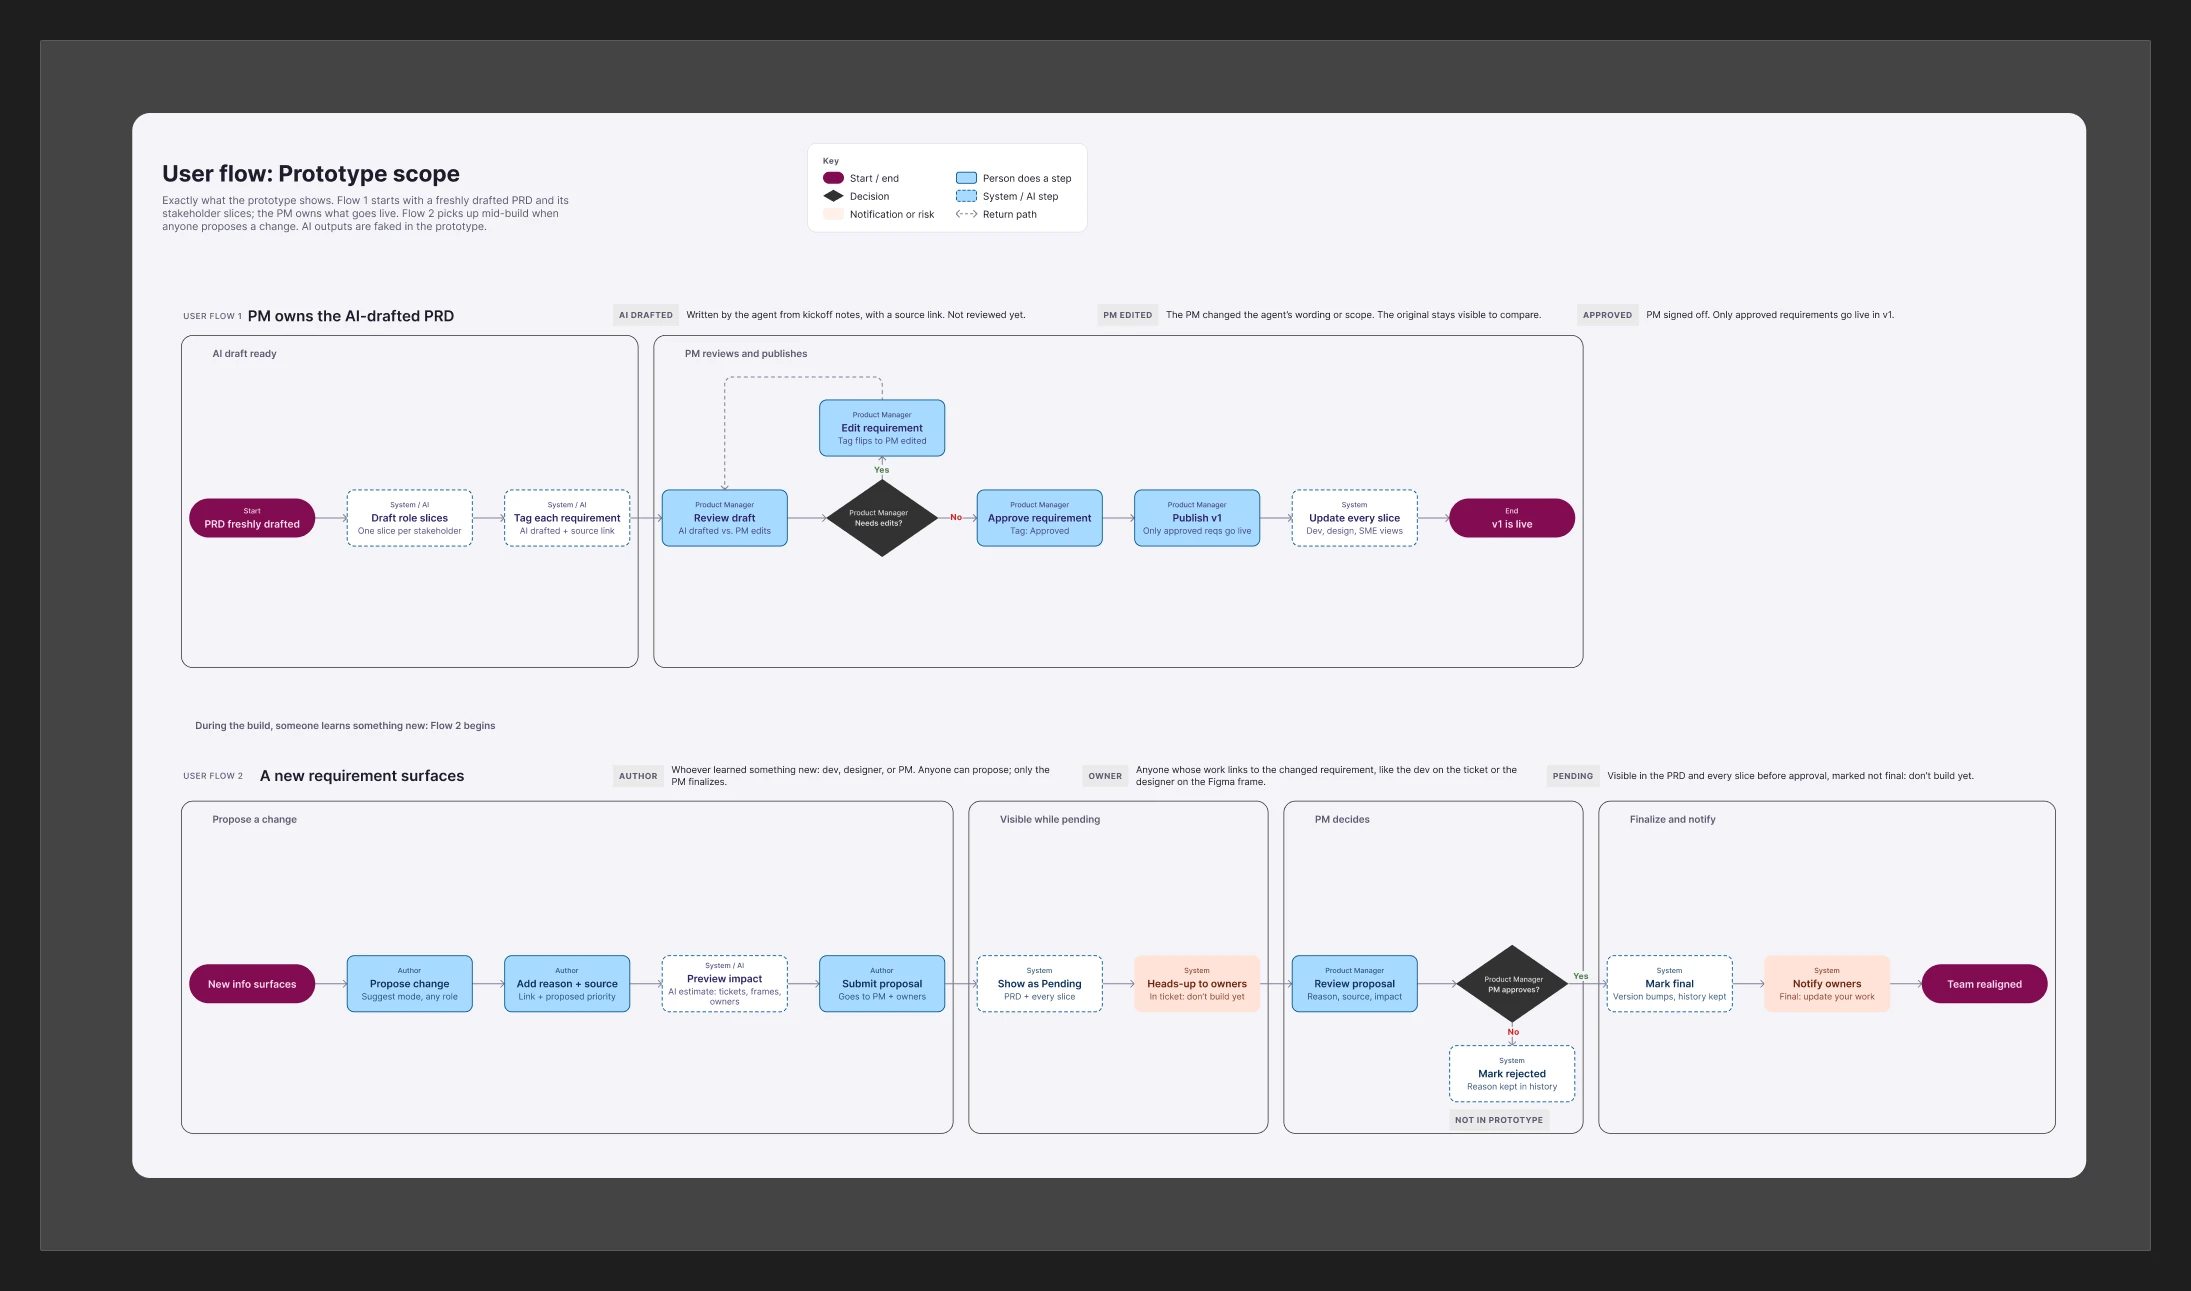
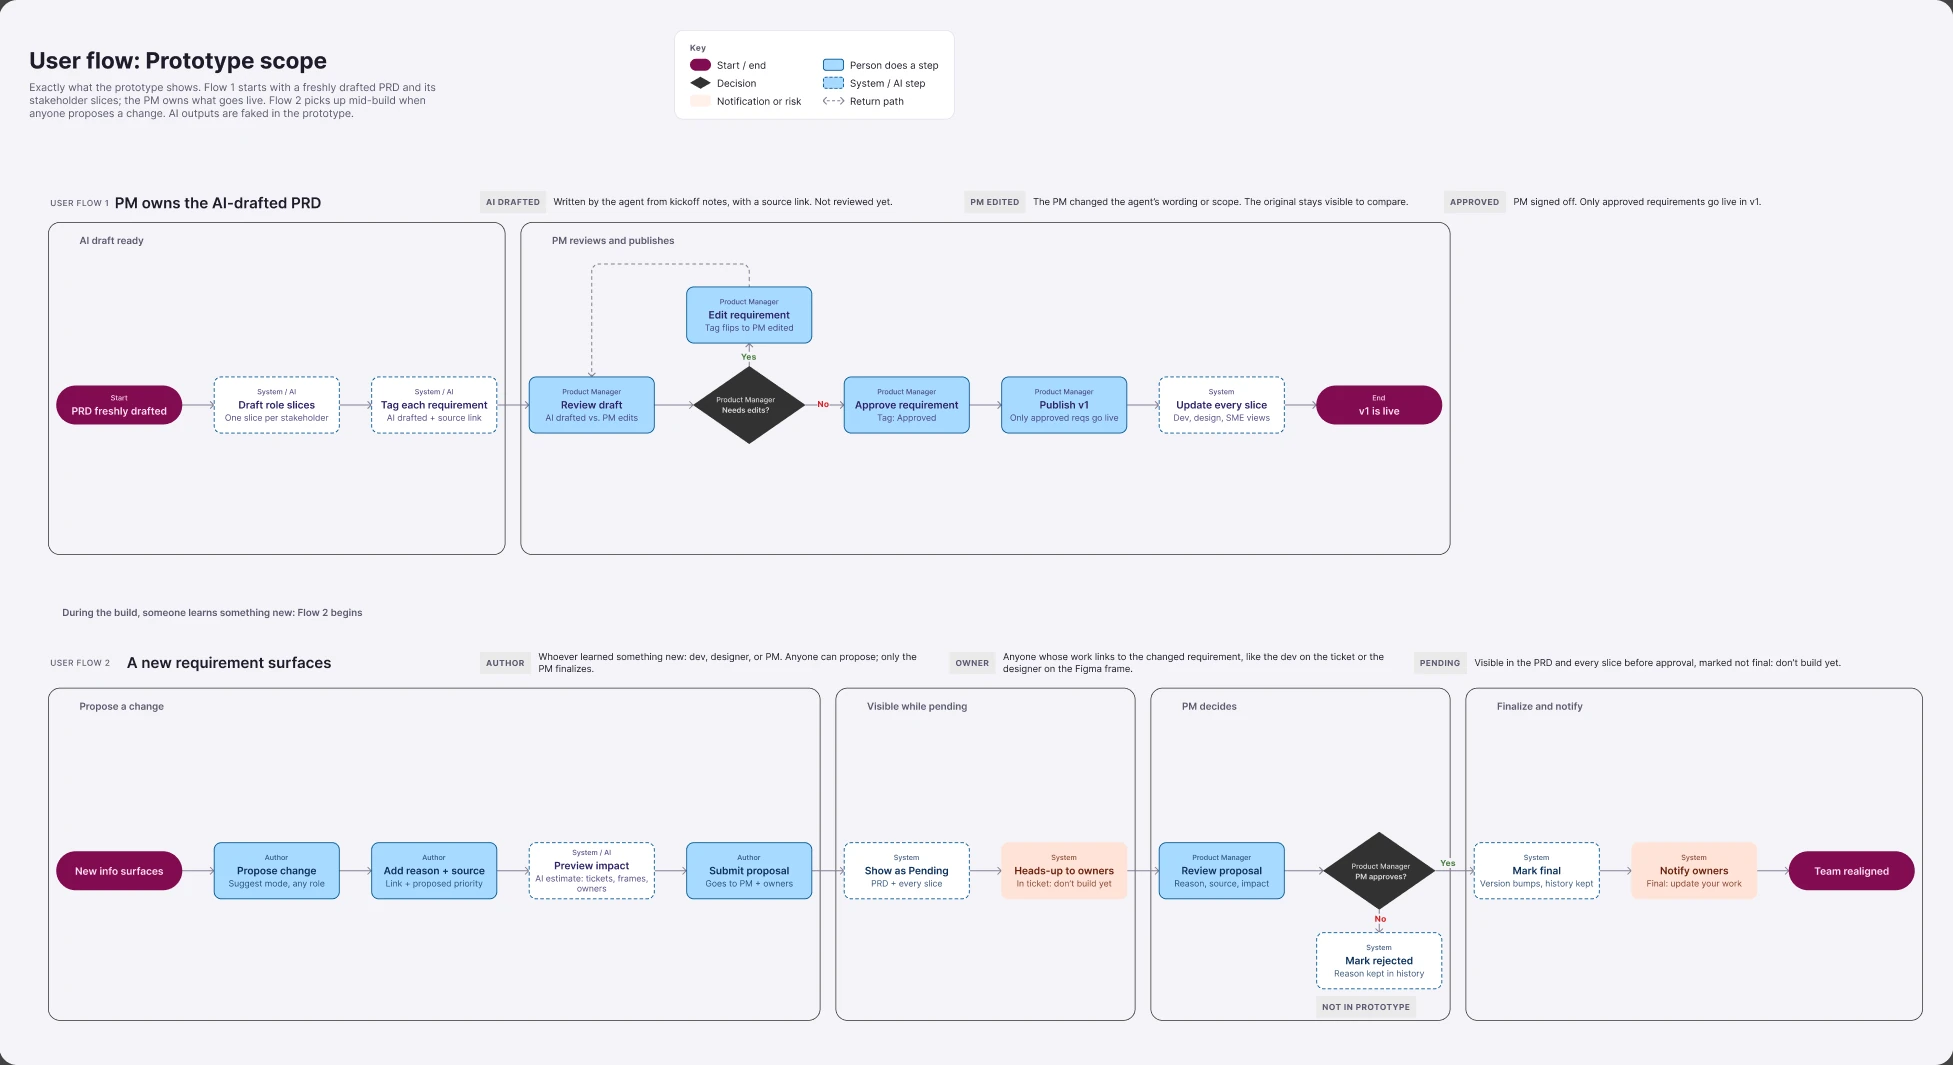
User flow: one artifact with Full flow / How I scoped the prototype tabs; crop flows to the board
Claude-Session: https://claude.ai/code/session_01L54DzuhfeQABLr4xASFuvZ

diff --git a/src/archive/ArchivePanel.jsx b/src/archive/ArchivePanel.jsx
@@ -409,11 +409,14 @@ export default function ArchivePanel({ onOpenCard, cardLabels = {}, startOpen = 
   const [open, setOpen] = useState(startOpen)
   const [selId, setSelId] = useState(ITEMS[0].id)
   const [tab, setTab] = useState(0)
-  const sel = ITEMS.find((i) => i.id === selId) || ITEMS[0]
-  const zoom = useZoom(selId)
+  const [view, setView] = useState(0)
+  const base = ITEMS.find((i) => i.id === selId) || ITEMS[0]
+  // an artifact with views (e.g. user flow) shows one at a time, picked from tabs above the viewer
+  const sel = base.views ? { ...base, ...base.views[Math.min(view, base.views.length - 1)] } : base
+  const zoom = useZoom(selId + ':' + view)
   const stageRef = useRef(null)
   const [nat, setNat] = useState(null)
-  useEffect(() => setNat(null), [selId])
+  useEffect(() => setNat(null), [selId, view])
   // Fill: the artifact fills the viewer edge to edge (documents: the page width fills it)
   const fillZ = () => {
     const el = stageRef.current
@@ -437,7 +440,7 @@ export default function ArchivePanel({ onOpenCard, cardLabels = {}, startOpen = 
     return () => window.removeEventListener('keydown', onKey)
   }, [open])
 
-  const pick = (id) => { setSelId(id); setTab(0) }
+  const pick = (id) => { setSelId(id); setTab(0); setView(0) }
   const isDoc = sel.kind === 'doc'
 
   return (
@@ -508,8 +511,15 @@ export default function ArchivePanel({ onOpenCard, cardLabels = {}, startOpen = 
                     </div>
                   </div>
                 </div>
+                {base.views && (
+                  <div className="ar-views" role="tablist" aria-label="Views">
+                    {base.views.map((vw, i) => (
+                      <button key={vw.label} type="button" role="tab" aria-selected={i === view} onClick={() => setView(i)}>{vw.label}</button>
+                    ))}
+                  </div>
+                )}
                 <div className="ar-stage" ref={stageRef}>
-                  <ViewerBoundary resetKey={sel.id}>{isDoc ? <DocView item={sel} zoom={zoom} tab={tab} setTab={setTab} /> : <ImageView key={sel.id} item={sel} zoom={zoom} onSize={setNat} />}</ViewerBoundary>
+                  <ViewerBoundary resetKey={sel.id + ':' + view}>{isDoc ? <DocView item={sel} zoom={zoom} tab={tab} setTab={setTab} /> : <ImageView key={sel.id + ':' + view} item={sel} zoom={zoom} onSize={setNat} />}</ViewerBoundary>
                 </div>
               </div>
 

diff --git a/src/archive/archiveData.js b/src/archive/archiveData.js
@@ -154,8 +154,11 @@ export const GROUPS = [
     { id: 'mind', kind: 'img', explore: 'mind', dark: true, img: 'mind', title: 'Mind map', meta: 'Themes, pains and ideas', card: 'mind-mapping', takeaway: 'What I carried into Astra: a living PRD with change and drift alerts, and a drafting tool that listens to conversations.' }
   ]},
   { name: 'Designing Astra', items: [
-    { id: 'flowfinal', kind: 'img', img: 'flowfinal', title: 'User flow', meta: 'VP request to team realigned', takeaway: 'Flow 1 starts from a VP request. Flow 2 picks up mid-build, when someone learns something new and proposes a change.' },
-    { id: 'flow', kind: 'img', img: 'flow', title: 'User flow: prototype scope', meta: 'Exactly what the prototype shows', takeaway: 'Anyone can propose a change. Only the PM finalizes it.' },
+    { id: 'flowfinal', kind: 'img', img: 'flowfinal', title: 'User flow', meta: 'Full flow, and how I scoped the prototype', takeaway: 'Flow 1 starts from a VP request. Flow 2 picks up mid-build, when someone learns something new and proposes a change.',
+      views: [
+        { label: 'Full flow', img: 'flowfinal', takeaway: 'Flow 1 starts from a VP request. Flow 2 picks up mid-build, when someone learns something new and proposes a change.' },
+        { label: 'How I scoped the prototype', img: 'flow', takeaway: 'Anyone can propose a change. Only the PM finalizes it.' }
+      ] },
     { id: 'high', kind: 'img', dark: true, img: 'high', title: 'High-fi wireframes', meta: 'Codex, Figma and PRD views', card: 'wireframes', takeaway: 'Built around one scenario: the PRD says the dashboard refreshes every 15 minutes, but the data only updates once an hour.' }
   ]},
   { name: 'Testing · Nov 2026', items: [

diff --git a/src/archive/archive.css b/src/archive/archive.css
@@ -70,6 +70,10 @@
 .ar-seg { display: flex; margin-left: 8px; padding: 2px; border-radius: 18px; background: #191b1c; }
 .ar-tools .ar-seg button { width: auto; min-width: 52px; height: 30px; padding: 0 12px; border-radius: 15px; font: 600 12px var(--sans); color: #f1f1f1; }
 .ar-tools .ar-seg button[aria-pressed='true'] { background: #f1f1f1; color: #202124; }
+.ar-views { flex-shrink: 0; display: flex; gap: 4px; padding: 8px 10px 0; background: #fff; border-bottom: 1px solid #e3e3e3; }
+.ar-views button { height: 36px; padding: 0 14px; border: 0; border-bottom: 2px solid transparent; background: transparent; cursor: pointer; font: 600 13px var(--sans); color: #707070; }
+.ar-views button[aria-selected='true'] { color: #1e1e1e; border-bottom-color: #1e1e1e; }
+.ar-views button:hover { color: #1e1e1e; }
 .ar-stage { position: relative; flex-grow: 1; min-height: 0; background: #525659; overflow: hidden; }
 
 .ar-imgwrap { position: absolute; inset: 0; display: flex; flex-direction: column; }
